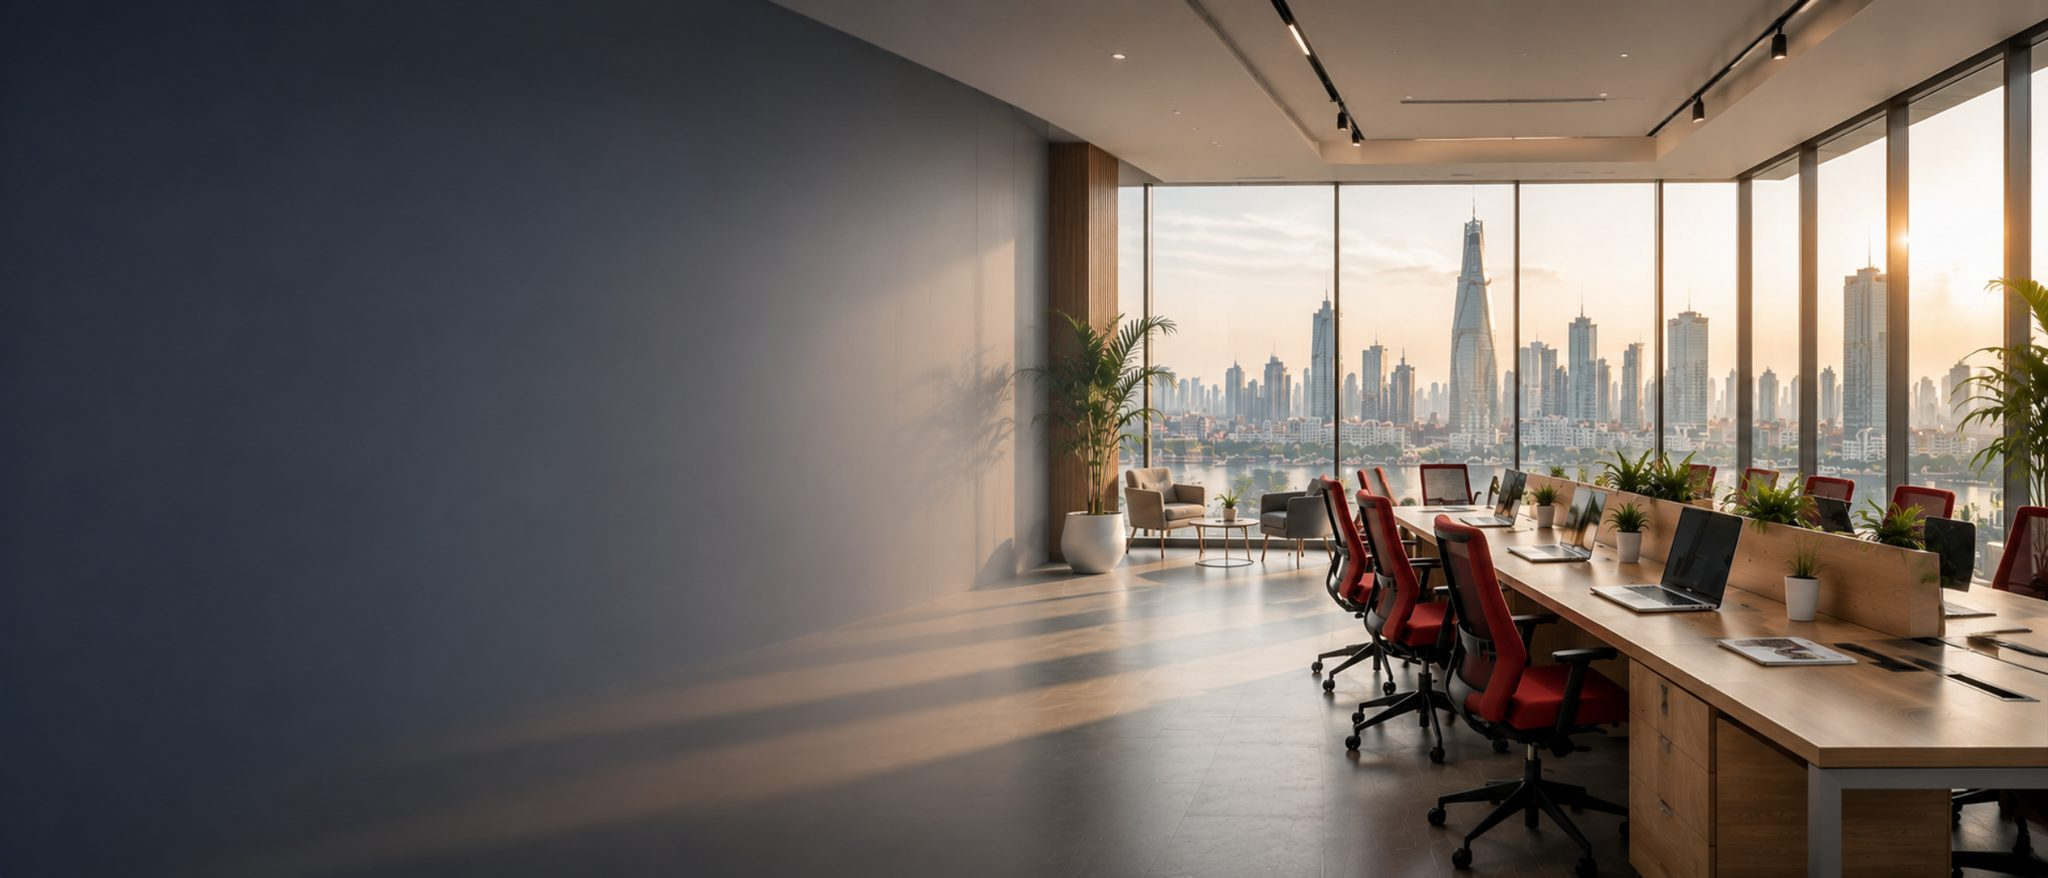
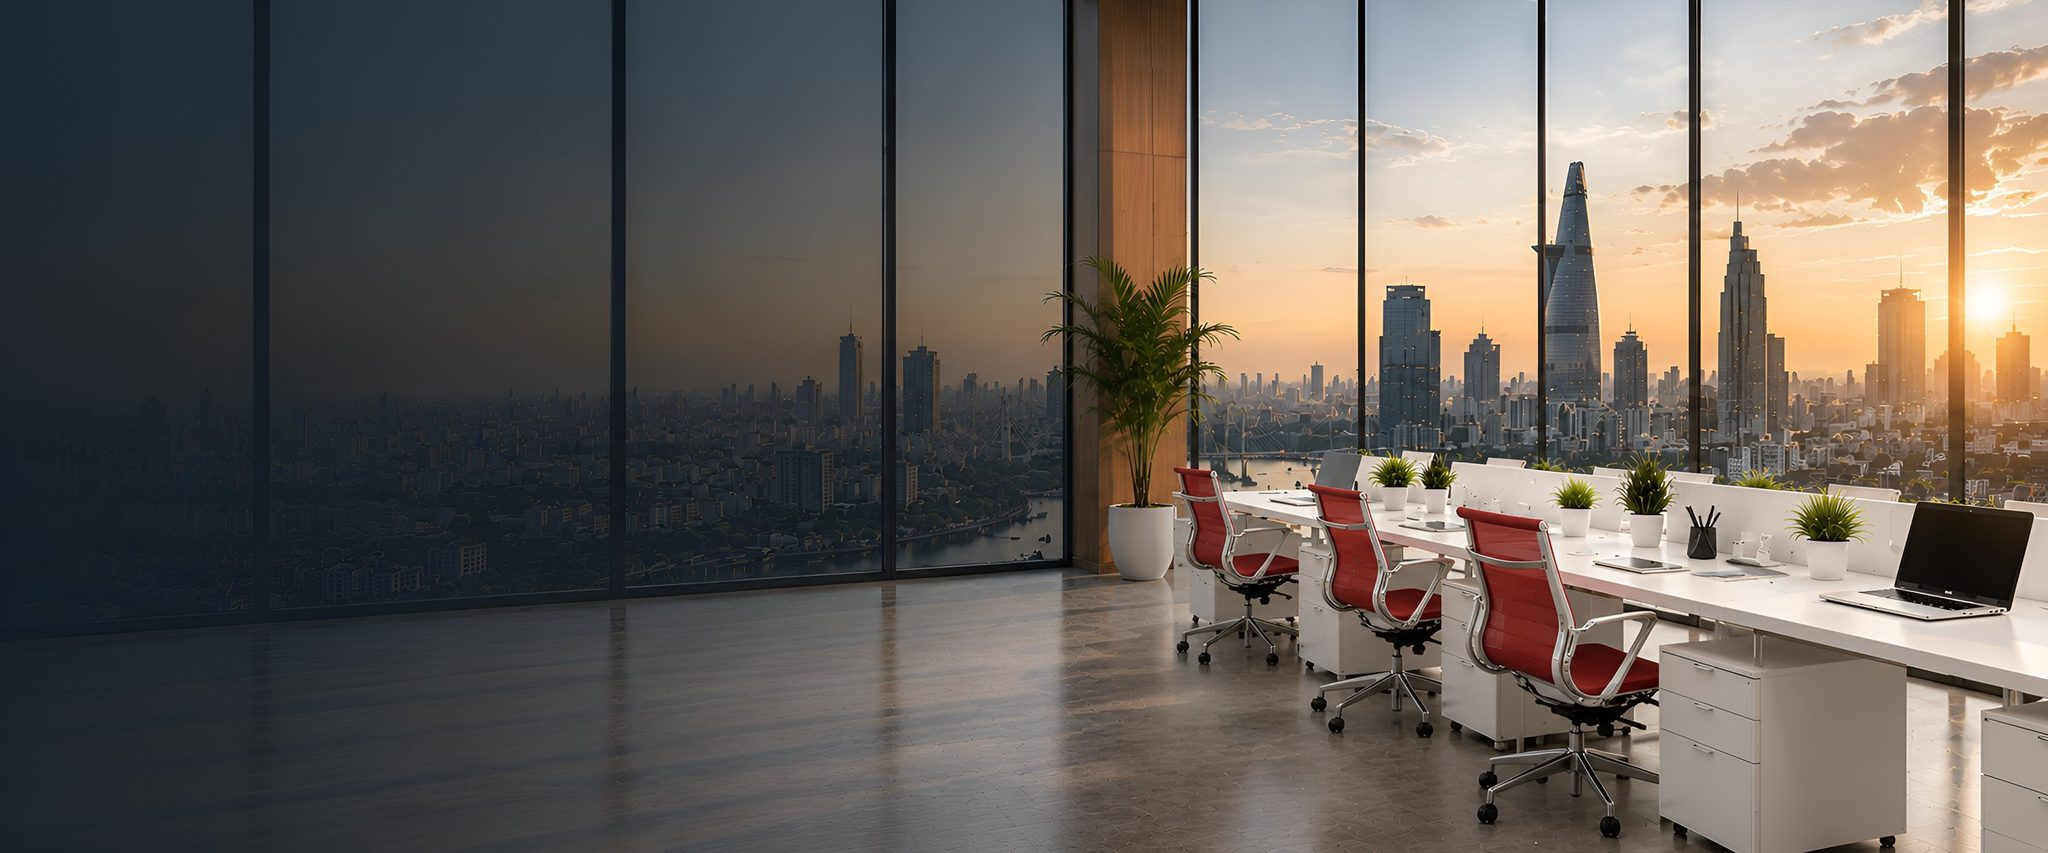
Update hero images/colors, compact footer text, add per-page OG images
- Hero: reduce rotation to 2 images (drop anh-hero-trang-chu-2.jpg), restore
  brand blue (#3B9EFF) on H1 highlight and (#8FC1F5, bold) on service links
- Footer: merge GCNDKDN line with issue date, switch text to near-white
  (#F5F7FA) for contrast on navy background
- Add 32 cropped 1200x630 OG images and wire per-page openGraph.images for
  homepage, 6 service pages, 12 location pages, and other top-level pages,
  with root layout providing a sitewide fallback for the rest

diff --git a/src/app/layout.tsx b/src/app/layout.tsx
@@ -42,6 +42,22 @@ export const metadata: Metadata = {
     ],
     apple: [{ url: "/apple-icon.png", sizes: "180x180", type: "image/png" }],
   },
+  // Site-wide fallback so any page without its own openGraph.images (e.g.
+  // knowledge-center categories, tiện ích tools) still gets a real preview
+  // image instead of falling back to a bare logo/blank card when shared.
+  openGraph: {
+    siteName: SITE_NAME,
+    locale: "vi_VN",
+    type: "website",
+    images: [
+      {
+        url: "/images/og/anh-hero-trang-chu.jpg",
+        width: 1200,
+        height: 630,
+        alt: SITE_NAME,
+      },
+    ],
+  },
 };
 
 const organizationSchema = {

diff --git a/src/app/blog/[slug]/page.tsx b/src/app/blog/[slug]/page.tsx
@@ -31,6 +31,15 @@ export async function generateMetadata({
   return {
     title: post.metaTitle,
     description: post.metaDescription,
+    openGraph: {
+      images: [
+        {
+          url: post.heroImage.replace("/images/", "/images/og/"),
+          width: 1200,
+          height: 630,
+        },
+      ],
+    },
   };
 }
 

diff --git a/src/components/Hero.tsx b/src/components/Hero.tsx
@@ -32,7 +32,6 @@ const SERVICE_KEYWORDS = [
 const HERO_IMAGES = [
   "/images/anh-hero-trang-chu.jpg",
   "/images/anh-hero-trang-chu-1.jpg",
-  "/images/anh-hero-trang-chu-2.jpg",
 ];
 
 export default function Hero() {
@@ -75,7 +74,7 @@ export default function Hero() {
         <div className="max-w-[760px]">
           <motion.p
             variants={item}
-            className="mb-3 inline-flex items-center gap-2 text-[12.5px] font-bold tracking-[0.14em] text-[#E5F2FF] uppercase before:h-[2px] before:w-[22px] before:rounded-full before:bg-accent"
+            className="mb-3 inline-flex items-center gap-2 text-[12.5px] font-bold tracking-[0.14em] text-[#8FC1F5] uppercase before:h-[2px] before:w-[22px] before:rounded-full before:bg-accent"
           >
             Đối tác vận hành doanh nghiệp toàn diện
           </motion.p>
@@ -84,7 +83,7 @@ export default function Hero() {
             className="mb-4 font-display text-[32px] leading-[1.15] font-extrabold text-white [text-shadow:0_2px_20px_rgba(0,0,0,0.35)] sm:text-[38px] lg:text-[51px] lg:leading-[1.12]"
           >
             Nơi doanh nghiệp của bạn{" "}
-            <span className="text-[#9FCBFF]">bắt đầu vững vàng</span>{" "}
+            <span className="text-[#3B9EFF]">bắt đầu vững vàng</span>{" "}
             &amp; phát triển bền vững
           </motion.h1>
           <motion.p
@@ -106,7 +105,7 @@ export default function Hero() {
                 <Link
                   key={kw.href}
                   href={kw.href}
-                  className="text-[12.5px] font-bold text-[#E5F2FF] transition-colors duration-200 hover:text-white hover:underline"
+                  className="text-[12.5px] font-bold text-[#8FC1F5] transition-colors duration-200 hover:text-white hover:underline"
                 >
                   {kw.label}
                 </Link>

diff --git a/src/components/Footer.tsx b/src/components/Footer.tsx
@@ -38,14 +38,12 @@ export default function Footer() {
                 className="object-contain object-left"
               />
             </div>
-            <p className="text-[13.5px] leading-loose text-white/55">
+            <p className="text-[13.5px] leading-loose text-[#F5F7FA]">
               Công ty TNHH MAX Office
               <br />
               Số 10 Sông Thao, Phường Tân Sơn Hòa, Tp.HCM
               <br />
-              GCNDKDN: 0317502009 do Sở Tài Chính - Tp. Hồ Chí Minh
-              <br />
-              Cấp ngày 03/10/2022
+              GCNDKDN: 0317502009 do Sở Tài Chính - Tp. Hồ Chí Minh cấp ngày 03/10/2022
               <br />
               <br />
               Hotline: [phone redacted] – [phone redacted]

diff --git a/src/app/locations/bau-cat/page.tsx b/src/app/locations/bau-cat/page.tsx
@@ -7,6 +7,11 @@ const data = LOCATIONS_DATA["bau-cat"];
 export const metadata: Metadata = {
   title: data.metaTitle,
   description: data.metaDescription,
+  openGraph: {
+    images: [
+      { url: `/images/og/dia-diem-${data.slug}.jpg`, width: 1200, height: 630 },
+    ],
+  },
 };
 
 export default function BauCatPage() {

diff --git a/src/app/locations/cmt8/page.tsx b/src/app/locations/cmt8/page.tsx
@@ -7,6 +7,11 @@ const data = LOCATIONS_DATA["cmt8"];
 export const metadata: Metadata = {
   title: data.metaTitle,
   description: data.metaDescription,
+  openGraph: {
+    images: [
+      { url: `/images/og/dia-diem-${data.slug}.jpg`, width: 1200, height: 630 },
+    ],
+  },
 };
 
 export default function Cmt8Page() {

diff --git a/src/app/locations/cong-hoa/page.tsx b/src/app/locations/cong-hoa/page.tsx
@@ -7,6 +7,11 @@ const data = LOCATIONS_DATA["cong-hoa"];
 export const metadata: Metadata = {
   title: data.metaTitle,
   description: data.metaDescription,
+  openGraph: {
+    images: [
+      { url: `/images/og/dia-diem-${data.slug}.jpg`, width: 1200, height: 630 },
+    ],
+  },
 };
 
 export default function CongHoaPage() {

diff --git a/src/app/locations/cuu-long/page.tsx b/src/app/locations/cuu-long/page.tsx
@@ -7,6 +7,11 @@ const data = LOCATIONS_DATA["cuu-long"];
 export const metadata: Metadata = {
   title: data.metaTitle,
   description: data.metaDescription,
+  openGraph: {
+    images: [
+      { url: `/images/og/dia-diem-${data.slug}.jpg`, width: 1200, height: 630 },
+    ],
+  },
 };
 
 export default function CuuLongPage() {

diff --git a/src/app/locations/dien-bien-phu/page.tsx b/src/app/locations/dien-bien-phu/page.tsx
@@ -7,6 +7,11 @@ const data = LOCATIONS_DATA["dien-bien-phu"];
 export const metadata: Metadata = {
   title: data.metaTitle,
   description: data.metaDescription,
+  openGraph: {
+    images: [
+      { url: `/images/og/dia-diem-${data.slug}.jpg`, width: 1200, height: 630 },
+    ],
+  },
 };
 
 export default function DienBienPhuPage() {

diff --git a/src/app/locations/hoang-ke-viem/page.tsx b/src/app/locations/hoang-ke-viem/page.tsx
@@ -7,6 +7,11 @@ const data = LOCATIONS_DATA["hoang-ke-viem"];
 export const metadata: Metadata = {
   title: data.metaTitle,
   description: data.metaDescription,
+  openGraph: {
+    images: [
+      { url: `/images/og/dia-diem-${data.slug}.jpg`, width: 1200, height: 630 },
+    ],
+  },
 };
 
 export default function HoangKeViemPage() {

diff --git a/src/app/locations/hoang-viet/page.tsx b/src/app/locations/hoang-viet/page.tsx
@@ -7,6 +7,11 @@ const data = LOCATIONS_DATA["hoang-viet"];
 export const metadata: Metadata = {
   title: data.metaTitle,
   description: data.metaDescription,
+  openGraph: {
+    images: [
+      { url: `/images/og/dia-diem-${data.slug}.jpg`, width: 1200, height: 630 },
+    ],
+  },
 };
 
 export default function HoangVietPage() {

diff --git a/src/app/locations/lam-son/page.tsx b/src/app/locations/lam-son/page.tsx
@@ -7,6 +7,11 @@ const data = LOCATIONS_DATA["lam-son"];
 export const metadata: Metadata = {
   title: data.metaTitle,
   description: data.metaDescription,
+  openGraph: {
+    images: [
+      { url: `/images/og/dia-diem-${data.slug}.jpg`, width: 1200, height: 630 },
+    ],
+  },
 };
 
 export default function LamSonPage() {